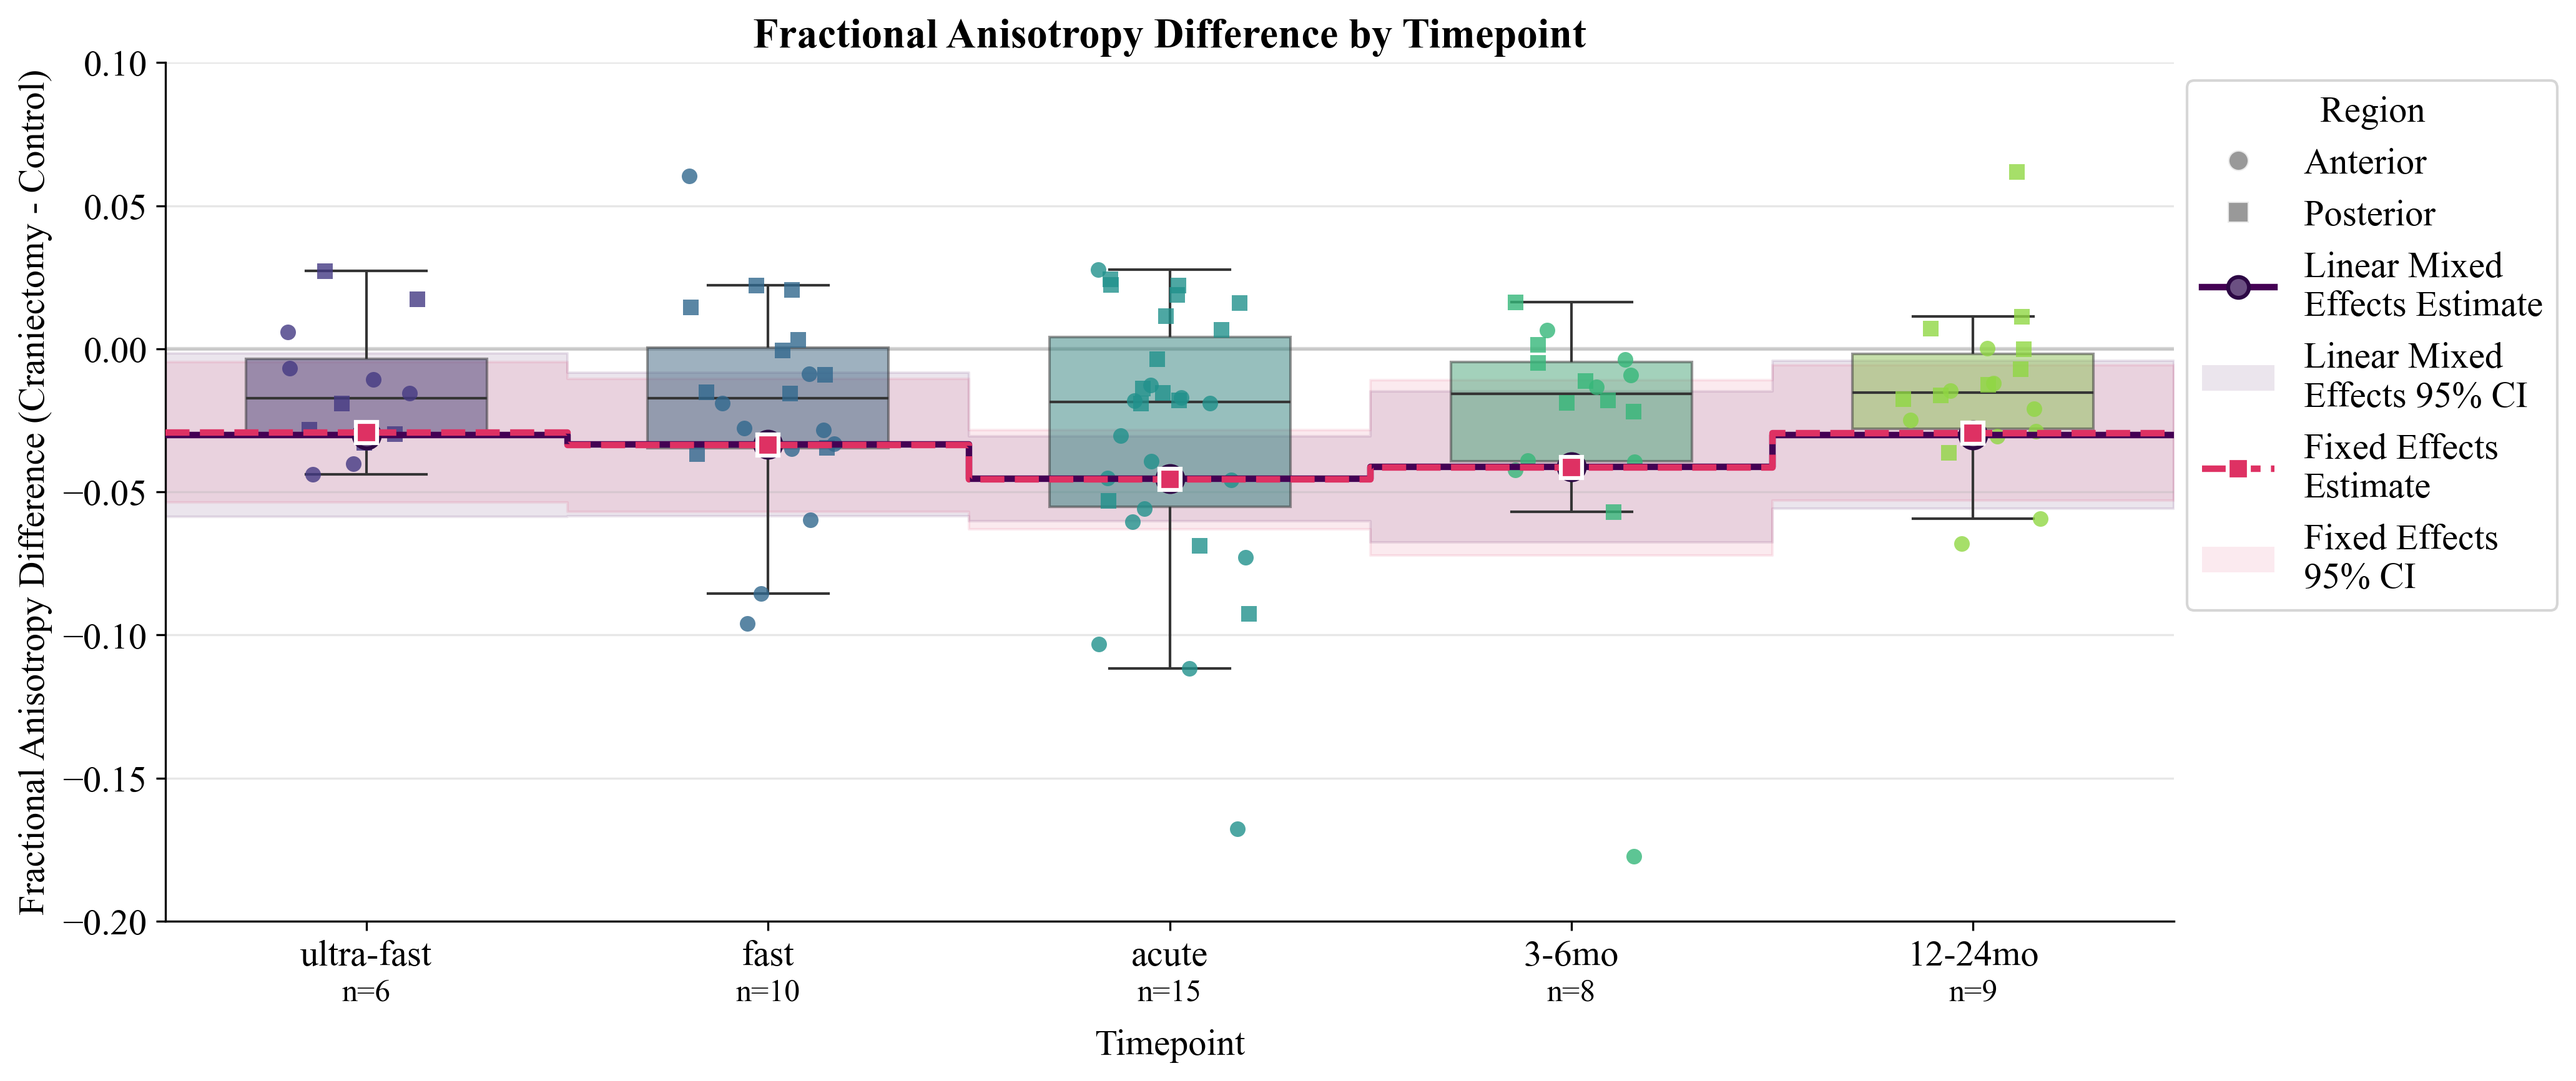
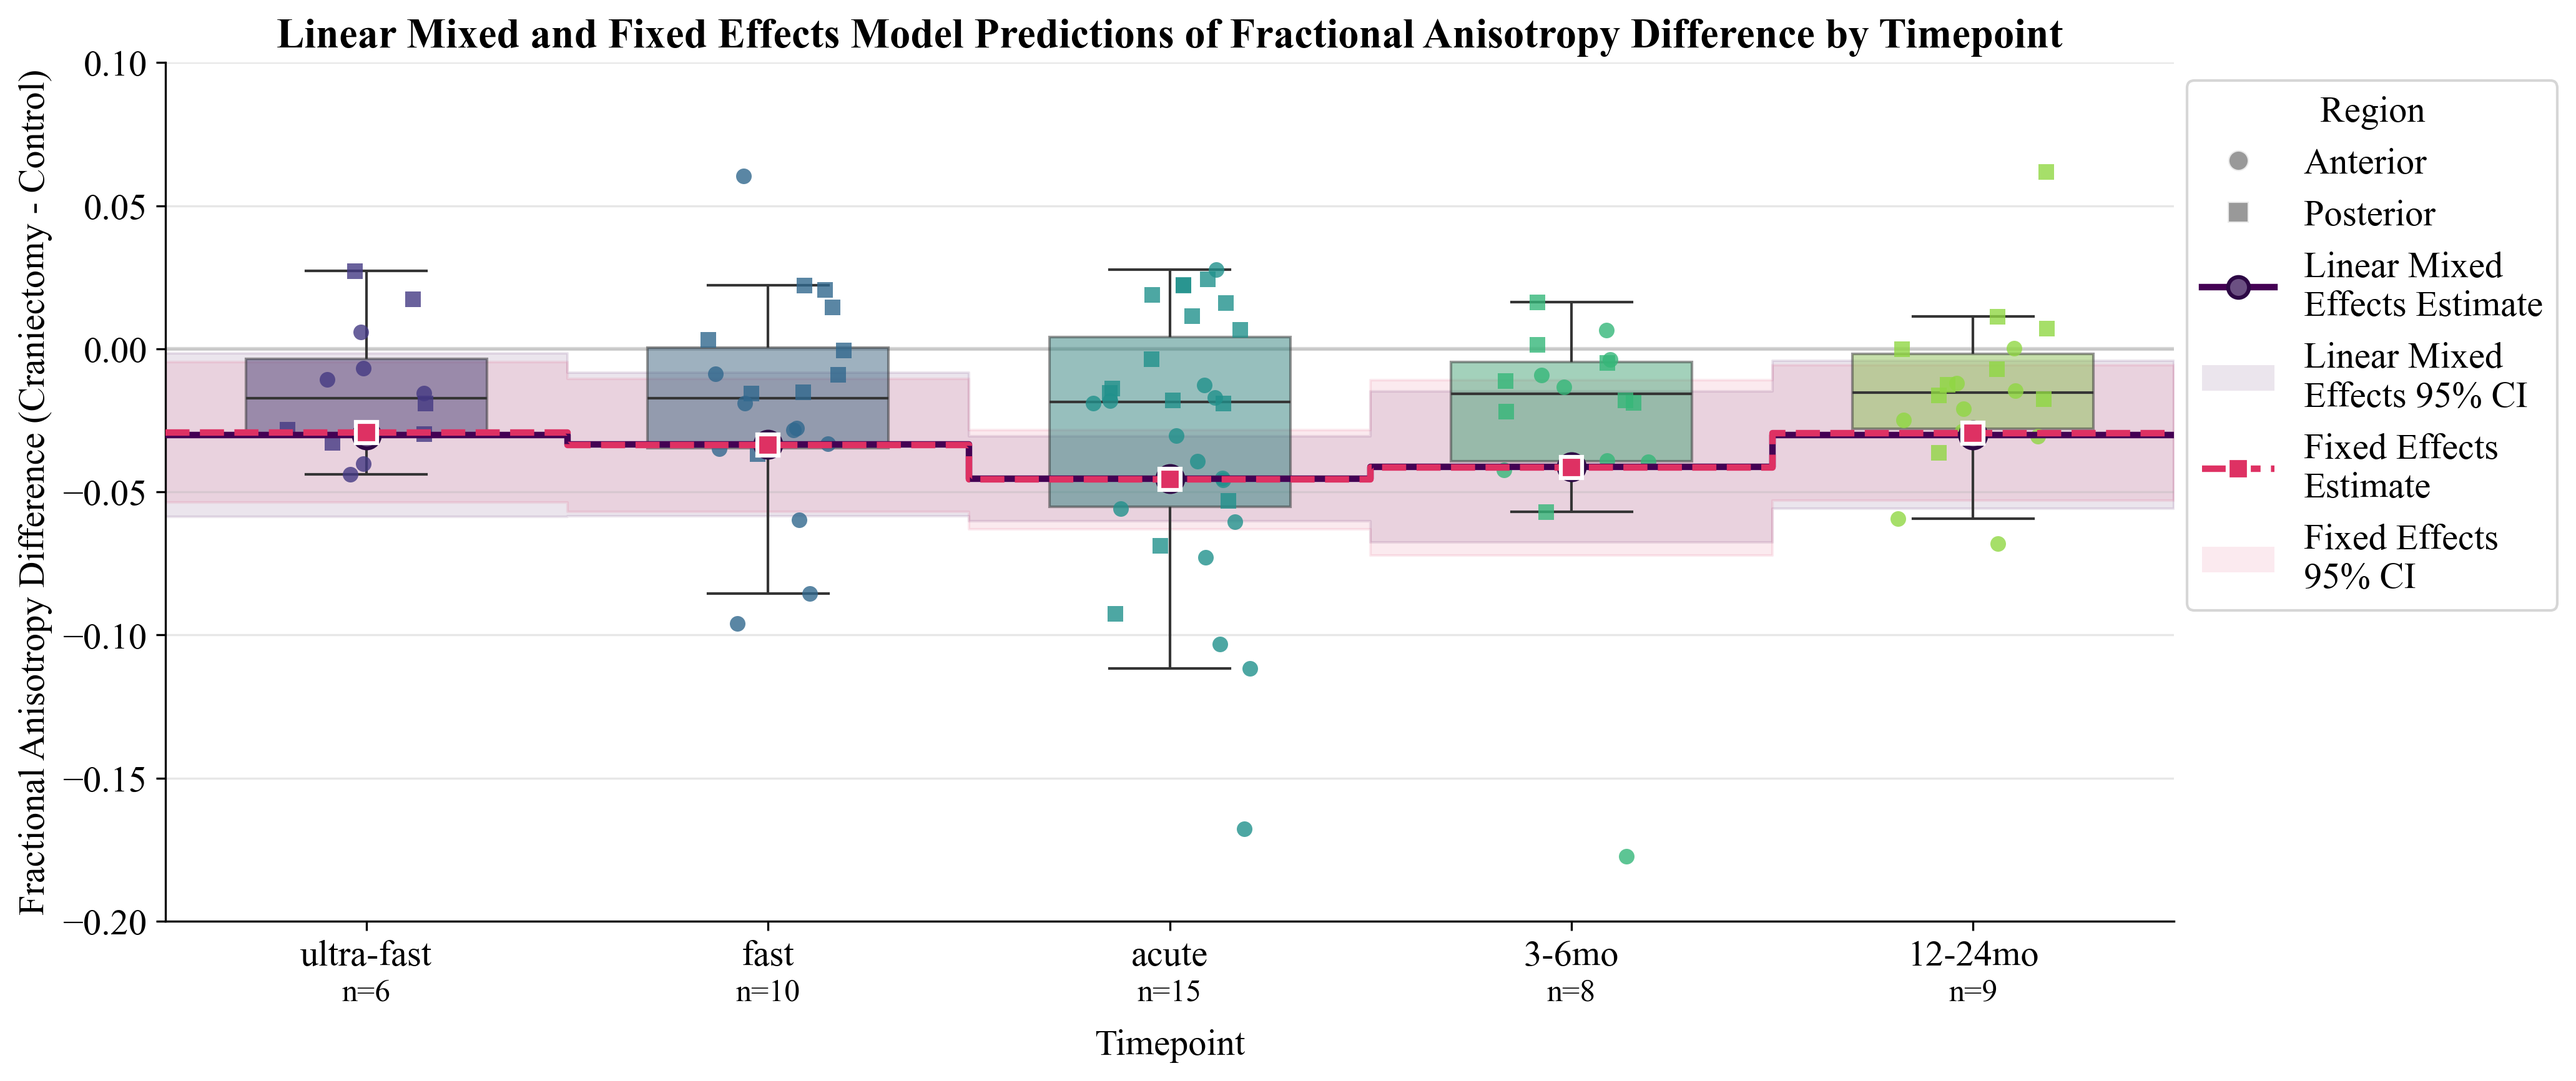
update plot titles

diff --git a/DTI_Processing_Scripts/dti_results_plotting_main.py b/DTI_Processing_Scripts/dti_results_plotting_main.py
@@ -740,7 +740,9 @@ def create_timepoint_boxplot_LME_dti(df, parameter, result, timepoints=['ultra-f
         ax.set_ylim(-0.2, 0.1)
     ax.set_ylabel(f'{param_name} Difference (Craniectomy - Control){unit}')#, fontsize=12)
     ax.set_title(f'{param_name} Difference by Timepoint', fontweight='bold') #, fontsize=14
-    
+    if fixed_only is False and fixed_effects_result is not None:
+        ax.set_title(f'Linear Mixed and Fixed Effects Model Predictions of {param_name} Difference by Timepoint', fontweight='bold')
+
     # Add grid for y-axis only
     ax.grid(True, axis='y', linestyle='-', alpha=0.3)
     
@@ -3748,8 +3750,8 @@ if __name__ == '__main__':
     # # sys.exit()
 
     # with posterior as default region: 
-    fa_long_wm_data_roi_567_combi_post=fa_long_wm_data_roi_567_combi.copy()
-    fa_long_wm_data_roi_567_combi_post["Region"] = pd.Categorical(fa_long_wm_data_roi_567_combi["Region"], categories=["posterior", "anterior"])
+    # fa_long_wm_data_roi_567_combi_post=fa_long_wm_data_roi_567_combi.copy()
+    # fa_long_wm_data_roi_567_combi_post["Region"] = pd.Categorical(fa_long_wm_data_roi_567_combi["Region"], categories=["posterior", "anterior"])
 
     # model_posterior = smf.mixedlm("FA_diff ~ timepoint + Region", 
     #                     fa_long_wm_data_roi_567_combi_post, 
@@ -3757,10 +3759,10 @@ if __name__ == '__main__':
     
     # result_post = model_posterior.fit(method='powell')
 
-    # # Step 4: Output results
+    # Step 4: Output results
     # print("Mixed effects model summary for posterior region as baseline:")
     # print_lme_summary_precise(result_post, precision=6)
-    # sys.exit()
+    # # sys.exit()
     # print(result_post.summary())
 
     # print("\nFixed Effects Parameters:")
@@ -3769,100 +3771,100 @@ if __name__ == '__main__':
     # print("\nRandom Effects Parameters:")
     # print(result_post.cov_re)
 
-    ##############################
-    ######## PLOTTING LME
+    #############################
+    ####### PLOTTING LME
 
-    # create_timepoint_boxplot_LME_dti(df=wm_data_roi_567_combi, parameter='fa', result=result, timepoints=['ultra-fast', 'fast', 'acute', '3-6mo', '12-24mo'])
-    ##################################
+    create_timepoint_boxplot_LME_dti(df=wm_data_roi_567_combi, parameter='fa', result=result, timepoints=['ultra-fast', 'fast', 'acute', '3-6mo', '12-24mo'])
+    #################################
 
-    # ###### WHY DO LME? 
-    # # Check if linear mixed effect (patient as random effect) adds any value
-    # print("\n=== Formal Test for Random Effects ===")
-    # # Compare fixed vs mixed effects models using likelihood ratio test
-    # from scipy import stats
+    ###### WHY DO LME? 
+    # Check if linear mixed effect (patient as random effect) adds any value
+    print("\n=== Formal Test for Random Effects ===")
+    # Compare fixed vs mixed effects models using likelihood ratio test
+    from scipy import stats
 
-    # try:
-    #     # Both models must use ML estimation for valid comparison
-    #     model_fixed = smf.ols("FA_diff ~ timepoint + Region", data=fa_long_wm_data_roi_567_combi)
-    #     result_fixed = model_fixed.fit()
-    #     ll_fixed = result_fixed.llf
+    try:
+        # Both models must use ML estimation for valid comparison
+        model_fixed = smf.ols("FA_diff ~ timepoint + Region", data=fa_long_wm_data_roi_567_combi)
+        result_fixed = model_fixed.fit()
+        ll_fixed = result_fixed.llf
         
-    #     model_mixed = smf.mixedlm("FA_diff ~ timepoint + Region",
-    #                             fa_long_wm_data_roi_567_combi,
-    #                             groups=fa_long_wm_data_roi_567_combi["patient_id"])
-    #     result_mixed = model_mixed.fit(method='powell', reml=False)  # Use ML, not REML
-    #     ll_mixed = result_mixed.llf
+        model_mixed = smf.mixedlm("FA_diff ~ timepoint + Region",
+                                fa_long_wm_data_roi_567_combi,
+                                groups=fa_long_wm_data_roi_567_combi["patient_id"])
+        result_mixed = model_mixed.fit(method='powell', reml=False)  # Use ML, not REML
+        ll_mixed = result_mixed.llf
         
-    #     # Likelihood ratio test
-    #     lr_stat = 2 * (ll_mixed - ll_fixed)
-    #     p_value = 1 - stats.chi2.cdf(lr_stat, df=1)  # df=1 for one random effect
+        # Likelihood ratio test
+        lr_stat = 2 * (ll_mixed - ll_fixed)
+        p_value = 1 - stats.chi2.cdf(lr_stat, df=1)  # df=1 for one random effect
         
-    #     print(f"Fixed effects LL: {ll_fixed:.4f}")
-    #     print(f"Mixed effects LL: {ll_mixed:.4f}")
-    #     print(f"LR statistic: {lr_stat:.4f}")
-    #     print(f"p-value: {p_value:.4f}")
-    #     print("Random effects needed" if p_value < 0.05 else "Fixed effects sufficient")
-    # except:
-    #     print("Could not perform likelihood ratio test")
+        print(f"Fixed effects LL: {ll_fixed:.4f}")
+        print(f"Mixed effects LL: {ll_mixed:.4f}")
+        print(f"LR statistic: {lr_stat:.4f}")
+        print(f"p-value: {p_value:.4f}")
+        print("Random effects needed" if p_value < 0.05 else "Fixed effects sufficient")
+    except:
+        print("Could not perform likelihood ratio test")
 
 
 
-    # # ###########################
-    # # ########## FIXED EFFECT WITH CLUSTERED STANDARD ERRORS (accounts for repeated measures by using clustering)
-    # # Fixed effects model with robust standard errors clustered by patient_id
-    # # to account for within-patient correlation across timepoints and regions
-    # # #####################################################
-    # # # LINEAR FIXED EFFECTS MODEL WITH COMBI DATA AND CLUSTERED SEs
-    # # # H_0: There is no statistically significant difference between
-    # # # FA in Control vs. Craniectomy for anterior and posterior ROIs.
-    # # # i.e. H_0: FA_diff = FA_{craniectomy} - FA_{control} = 0
-    # # # Fixed effects equation with Timepoint and Region as covariates.
-    # # # Y_{jk} = \beta_0 + \sum_{t=1}^{T-1} \beta_{1t} \cdot \text{Timepoint}_{jt} + \beta_2 \cdot \text{Region}_k + \varepsilon_{jk}
-    # # # $Y_{jk}$: FA difference (Craniectomy - Control) at timepoint $j$, in region $k$
-    # # # $\beta_0$: Intercept (mean FA difference at reference timepoint and region)
-    # # # $\beta_{1t}$: Coefficient for timepoint $t$ (excluding the reference level)
-    # # # $\text{Timepoint}_{jt}$: Indicator variable (1 if observation is at timepoint $t$, else 0)
-    # # # $\beta_2$: Coefficient for region (e.g., anterior vs posterior)
-    # # # $\text{Region}_k$: Indicator variable for brain region (e.g., 0 = anterior, 1 = posterior)
-    # # # $\varepsilon_{jk}$: Residual error, where $\varepsilon_{jk} \sim \mathcal{N}(0, \sigma^2)$
-    # # # print(wm_data_roi_567_combi.columns)
-    # # # fa_long_wm_data_roi_567_combi = pd.melt(wm_data_roi_567_combi,
-    # # # id_vars=['patient_id', 'timepoint'],
-    # # # value_vars=['fa_anterior_diff', 'fa_posterior_diff'],
-    # # # var_name='Region',
-    # # # value_name='FA_diff')
-    # # # print(fa_long_wm_data_roi_567_combi)
-    # # # # rename regions to anterior and posterior
-    # # # fa_long_wm_data_roi_567_combi['Region'] = fa_long_wm_data_roi_567_combi['Region'].map({
-    # # # 'fa_anterior_diff': 'anterior',
-    # # # 'fa_posterior_diff': 'posterior'
-    # # # })
-    # # # # Order timepoints, so that the first one is reference
-    # # # # Ensure 'timepoint' is treated as a categorical variable
-    # # # fa_long_wm_data_roi_567_combi['timepoint'] = pd.Categorical(
-    # # # fa_long_wm_data_roi_567_combi['timepoint'],
-    # # # categories=['acute', 'ultra-fast', 'fast', '3-6mo', '12-24mo'], # adjust as needed
-    # # # ordered=True
-    # # # )
+    # ###########################
+    # ########## FIXED EFFECT WITH CLUSTERED STANDARD ERRORS (accounts for repeated measures by using clustering)
+    # Fixed effects model with robust standard errors clustered by patient_id
+    # to account for within-patient correlation across timepoints and regions
+    # #####################################################
+    # # LINEAR FIXED EFFECTS MODEL WITH COMBI DATA AND CLUSTERED SEs
+    # # H_0: There is no statistically significant difference between
+    # # FA in Control vs. Craniectomy for anterior and posterior ROIs.
+    # # i.e. H_0: FA_diff = FA_{craniectomy} - FA_{control} = 0
+    # # Fixed effects equation with Timepoint and Region as covariates.
+    # # Y_{jk} = \beta_0 + \sum_{t=1}^{T-1} \beta_{1t} \cdot \text{Timepoint}_{jt} + \beta_2 \cdot \text{Region}_k + \varepsilon_{jk}
+    # # $Y_{jk}$: FA difference (Craniectomy - Control) at timepoint $j$, in region $k$
+    # # $\beta_0$: Intercept (mean FA difference at reference timepoint and region)
+    # # $\beta_{1t}$: Coefficient for timepoint $t$ (excluding the reference level)
+    # # $\text{Timepoint}_{jt}$: Indicator variable (1 if observation is at timepoint $t$, else 0)
+    # # $\beta_2$: Coefficient for region (e.g., anterior vs posterior)
+    # # $\text{Region}_k$: Indicator variable for brain region (e.g., 0 = anterior, 1 = posterior)
+    # # $\varepsilon_{jk}$: Residual error, where $\varepsilon_{jk} \sim \mathcal{N}(0, \sigma^2)$
+    # # print(wm_data_roi_567_combi.columns)
+    # # fa_long_wm_data_roi_567_combi = pd.melt(wm_data_roi_567_combi,
+    # # id_vars=['patient_id', 'timepoint'],
+    # # value_vars=['fa_anterior_diff', 'fa_posterior_diff'],
+    # # var_name='Region',
+    # # value_name='FA_diff')
+    # # print(fa_long_wm_data_roi_567_combi)
+    # # # rename regions to anterior and posterior
+    # # fa_long_wm_data_roi_567_combi['Region'] = fa_long_wm_data_roi_567_combi['Region'].map({
+    # # 'fa_anterior_diff': 'anterior',
+    # # 'fa_posterior_diff': 'posterior'
+    # # })
+    # # # Order timepoints, so that the first one is reference
+    # # # Ensure 'timepoint' is treated as a categorical variable
+    # # fa_long_wm_data_roi_567_combi['timepoint'] = pd.Categorical(
+    # # fa_long_wm_data_roi_567_combi['timepoint'],
+    # # categories=['acute', 'ultra-fast', 'fast', '3-6mo', '12-24mo'], # adjust as needed
+    # # ordered=True
+    # # )
 
     # Fixed effects model with clustered standard errors (anterior as reference region)
-    # import statsmodels.formula.api as smf
-    # model_fixed = smf.ols("FA_diff ~ timepoint + Region", data=fa_long_wm_data_roi_567_combi)
-    # result_fixed = model_fixed.fit(cov_type='cluster', cov_kwds={'groups': fa_long_wm_data_roi_567_combi['patient_id']})
+    import statsmodels.formula.api as smf
+    model_fixed = smf.ols("FA_diff ~ timepoint + Region", data=fa_long_wm_data_roi_567_combi)
+    result_fixed = model_fixed.fit(cov_type='cluster', cov_kwds={'groups': fa_long_wm_data_roi_567_combi['patient_id']})
 
-    # # Output fixed effects model results with clustered SEs
-    # print("Fixed effects model summary (clustered SEs by patient_id):")
-    # print(result_fixed.summary())
-    # print("\nFixed Effects Parameters:")
-    # print(result_fixed.params)
-    # print("Fixed effects model summary (clustered SEs by patient_id):")
-    # # print_lme_summary_precise(result_fixed, precision=6)
-    # print_fixed_effects_summary_precise(result_fixed, precision=8)
-    # # Check the actual p-values with high precision
-    # print("Actual p-values:")
-    # for param_name in result_fixed.params.index:
-    #     p_val = result_fixed.pvalues[param_name]
-    #     print(f"{param_name}: {p_val:.10e}")  # Scientific notation with 10 decimal places
+    # Output fixed effects model results with clustered SEs
+    print("Fixed effects model summary (clustered SEs by patient_id):")
+    print(result_fixed.summary())
+    print("\nFixed Effects Parameters:")
+    print(result_fixed.params)
+    print("Fixed effects model summary (clustered SEs by patient_id):")
+    # print_lme_summary_precise(result_fixed, precision=6)
+    print_fixed_effects_summary_precise(result_fixed, precision=8)
+    # Check the actual p-values with high precision
+    print("Actual p-values:")
+    for param_name in result_fixed.params.index:
+        p_val = result_fixed.pvalues[param_name]
+        print(f"{param_name}: {p_val:.10e}")  # Scientific notation with 10 decimal places
 
     
 
@@ -3883,7 +3885,7 @@ if __name__ == '__main__':
     # print_fixed_effects_summary_precise(result_fixed_post, precision=8)
     
 
-    # create_timepoint_boxplot_LME_dti(df=wm_data_roi_567_combi, parameter='fa', result=result, fixed_effects_result=result_fixed)
+    create_timepoint_boxplot_LME_dti(df=wm_data_roi_567_combi, parameter='fa', result=result, fixed_effects_result=result_fixed)
     # # create_timepoint_boxplot_LME_dti(df=wm_data_roi_567_combi, parameter='fa', result=result, fixed_effects_result=result_fixed, fixed_only=True)
     # sys.exit()
     
@@ -4152,20 +4154,20 @@ if __name__ == '__main__':
                         md_long_wm_data_roi_567_combi, 
                         groups=md_long_wm_data_roi_567_combi["patient_id"])
     
-    # result = model.fit(method='powell')
+    result = model.fit(method='powell')
 
-    # # Output mixed effect model results
-    # print("Mixed effects model summary:")
+    # Output mixed effect model results
+    print("Mixed effects model summary:")
     
-    # # print(result.summary())
-    # print_lme_summary_precise(result,precision=6)
-    # # sys.exit()
+    # print(result.summary())
+    print_lme_summary_precise(result,precision=6)
+    # sys.exit()
 
-    # print("\nFixed Effects Parameters:")
-    # print(result.fe_params)
+    print("\nFixed Effects Parameters:")
+    print(result.fe_params)
 
-    # print("\nRandom Effects Parameters:")
-    # print(result.cov_re)
+    print("\nRandom Effects Parameters:")
+    print(result.cov_re)
 
     # # with posterior as default region: 
     # md_long_wm_data_roi_567_combi_post=md_long_wm_data_roi_567_combi.copy()
@@ -4178,16 +4180,16 @@ if __name__ == '__main__':
     # # result_post = model_posterior.fit(method='powell')
 
     # # # Step 4: Output results
-    # # print("Mixed effects model summary (posterior as ref):")
-    # # # print(result_post.summary())
-    # # print_lme_summary_precise(result_post,precision=6)
-    # # # sys.exit()
+    # print("Mixed effects model summary (posterior as ref):")
+    # # print(result_post.summary())
+    # print_lme_summary_precise(result_post,precision=6)
+    # # sys.exit()
 
-    # # # print("\nFixed Effects Parameters:")
-    # # # print(result_post.fe_params)
+    # print("\nFixed Effects Parameters:")
+    # print(result_post.fe_params)
 
-    # # # print("\nRandom Effects Parameters:")
-    # # # print(result_post.cov_re)
+    # print("\nRandom Effects Parameters:")
+    # print(result_post.cov_re)
 
     # # ##############################
     # # ######## PLOTTING LME
@@ -4266,16 +4268,16 @@ if __name__ == '__main__':
     # # # # )
 
     # # Fixed effects model with clustered standard errors (anterior as reference region)
-    # import statsmodels.formula.api as smf
-    # model_fixed = smf.ols("MD_diff ~ timepoint + Region", data=md_long_wm_data_roi_567_combi)
-    # result_fixed = model_fixed.fit(cov_type='cluster', cov_kwds={'groups': md_long_wm_data_roi_567_combi['patient_id']})
+    import statsmodels.formula.api as smf
+    model_fixed = smf.ols("MD_diff ~ timepoint + Region", data=md_long_wm_data_roi_567_combi)
+    result_fixed = model_fixed.fit(cov_type='cluster', cov_kwds={'groups': md_long_wm_data_roi_567_combi['patient_id']})
 
-    # # Output fixed effects model results with clustered SEs
-    # print("Fixed effects model summary (clustered SEs by patient_id):")
-    # # print(result_fixed.summary())
-    # # print("\nFixed Effects Parameters:")
-    # # print(result_fixed.params)
-    # print_fixed_effects_summary_precise(result_fixed, precision=6)
+    # Output fixed effects model results with clustered SEs
+    print("Fixed effects model summary (clustered SEs by patient_id):")
+    print(result_fixed.summary())
+    print("\nFixed Effects Parameters:")
+    print(result_fixed.params)
+    print_fixed_effects_summary_precise(result_fixed, precision=6)
     # # # sys.exit()
 
     # # # Fixed effects model with posterior as reference region
@@ -4295,7 +4297,7 @@ if __name__ == '__main__':
     # # print_fixed_effects_summary_precise(result_fixed_post,precision=6)
     # # # sys.exit()
     # print("hello")
-    # create_timepoint_boxplot_LME_dti(df=wm_data_roi_567_combi, parameter='md', result=result, fixed_effects_result=result_fixed)
+    create_timepoint_boxplot_LME_dti(df=wm_data_roi_567_combi, parameter='md', result=result, fixed_effects_result=result_fixed)
     # # # create_timepoint_boxplot_LME_dti(df=wm_data_roi_567_combi, parameter='md', result=result, fixed_effects_result=result_fixed, fixed_only=True)
     # # sys.exit()
     # #### PLOT FIXED EFFECT ON BOX PLOT
